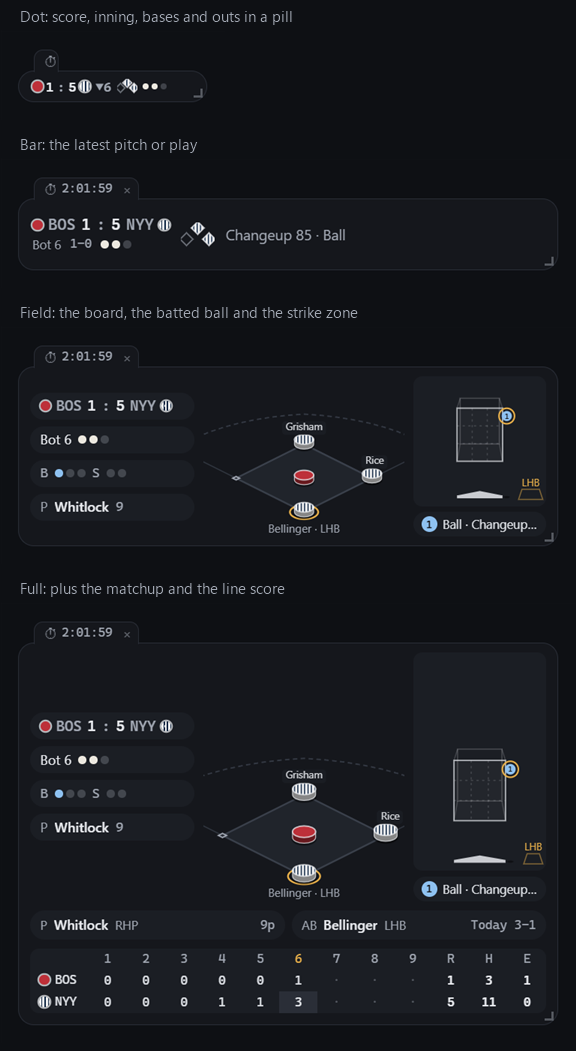
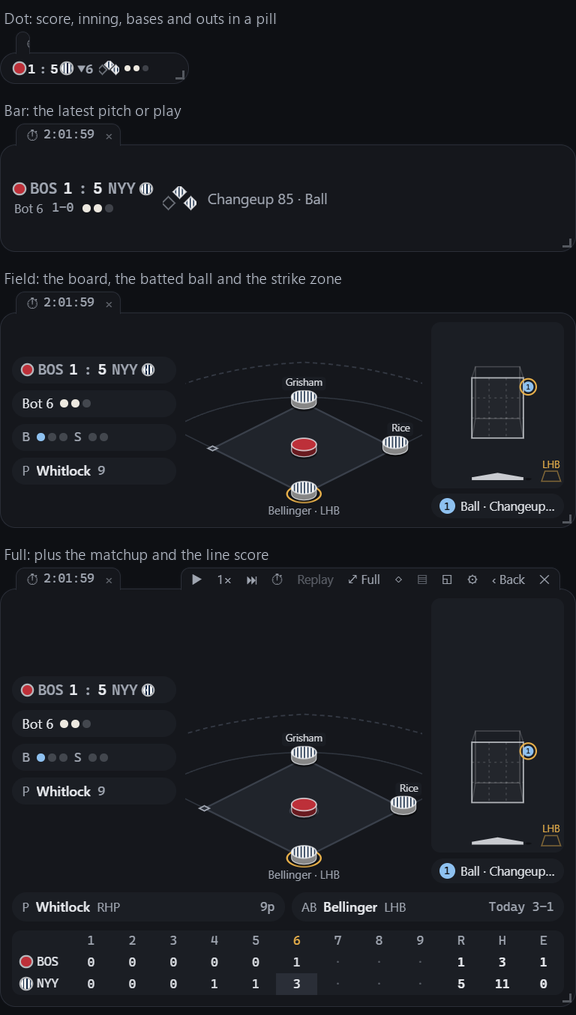
Site: the app in the corner of a work window, a Chinese size sheet, FAQ, llms.txt
- Hero: a plain spreadsheet window with the real replay over its corner, so the idea reads at once.
- The size sheet re-captured from 0.1.1 (the board now shows the infield edge), and a Chinese one
  for the Chinese page: Chinese labels over the app in Chinese.
- Two features added (player card on hover, lineup and pitchers window).
- Questions and answers on both pages, with FAQPage structured data built from the same text.
- SoftwareApplication data: screenshots, feature list, release notes, free.
- llms.txt, favicon.ico, an iPhone home-screen icon, a 404 page (no index), sitemap dates.

diff --git a/site/index.html b/site/index.html
@@ -22,6 +22,7 @@
 <meta name="twitter:card" content="summary_large_image">
 <meta name="theme-color" content="#15171C">
 <link rel="icon" type="image/png" href="media/icon.png">
+<link rel="apple-touch-icon" href="media/apple-touch-icon.png">
 <link rel="stylesheet" href="style.css">
 <script type="application/ld+json">
 {
@@ -35,10 +36,95 @@
   "license": "https://www.apache.org/licenses/LICENSE-2.0",
   "url": "https://basesmall.chroniclecore.com/",
   "downloadUrl": "https://github.com/Zaious/basesmall/releases/latest",
+  "image": "https://basesmall.chroniclecore.com/media/og.png",
+  "screenshot": ["https://basesmall.chroniclecore.com/media/demo.gif", "https://basesmall.chroniclecore.com/media/sizes.png"],
+  "featureList": ["Follows your team's live games", "Four sizes, from a pill to a full panel", "Strike zone with every pitch", "Notices that never steal focus", "Replays without spoilers", "Player card on hover", "Lineup and pitchers window", "In-app updates"],
+  "releaseNotes": "https://github.com/Zaious/basesmall/blob/main/CHANGELOG.md",
+  "isAccessibleForFree": true,
   "codeRepository": "https://github.com/Zaious/basesmall",
   "inLanguage": ["en", "zh-Hant"],
   "author": { "@type": "Person", "name": "Zaious" },
   "publisher": { "@type": "Organization", "name": "ChronicleCore Studio", "url": "https://studio.chroniclecore.com" }
+}
+</script>
+<script type="application/ld+json">
+{
+  "@context": "https://schema.org",
+  "@type": "FAQPage",
+  "mainEntity": [
+    {
+      "@type": "Question",
+      "name": "Is this an official MLB app?",
+      "acceptedAnswer": {
+        "@type": "Answer",
+        "text": "No. Basesmall is an independent fan project, not affiliated with MLB, MLB Advanced Media, the MLB Players Association or any team. Game data comes from MLB's public Stats API, fetched by your own computer, for personal, non-commercial use."
+      }
+    },
+    {
+      "@type": "Question",
+      "name": "Does it cost anything? Are there ads?",
+      "acceptedAnswer": {
+        "@type": "Answer",
+        "text": "It is free and open source (Apache License 2.0), with no ads and nothing to pay for."
+      }
+    },
+    {
+      "@type": "Question",
+      "name": "Does it show video or play the broadcast?",
+      "acceptedAnswer": {
+        "@type": "Answer",
+        "text": "No. It draws the game with a few pieces: runners, the count, the outs, the score, where each pitch crossed the plate and where the ball went. Sound is off by default, and there are only a few short cues you can choose."
+      }
+    },
+    {
+      "@type": "Question",
+      "name": "Will a replay spoil the result?",
+      "acceptedAnswer": {
+        "@type": "Answer",
+        "text": "No. Scores stay hidden while you pick a game, and in a replay the players' lines, the lineups and the pitchers only count up to the moment on screen. Games from 2023 on can be replayed."
+      }
+    },
+    {
+      "@type": "Question",
+      "name": "Does it collect my data?",
+      "acceptedAnswer": {
+        "@type": "Answer",
+        "text": "The app does not. No account, no server, no analytics: it talks to MLB for game data and asks GitHub once at start-up whether a newer version exists (you can switch that off)."
+      }
+    },
+    {
+      "@type": "Question",
+      "name": "Why does Windows say it protected my PC?",
+      "acceptedAnswer": {
+        "@type": "Answer",
+        "text": "Because the app is not code-signed yet, not because anything is wrong. Choose More info, then Run anyway. The source is public on GitHub, and the installers are built from it there."
+      }
+    },
+    {
+      "@type": "Question",
+      "name": "Does it work on a Mac or on Linux?",
+      "acceptedAnswer": {
+        "@type": "Answer",
+        "text": "Yes, as experimental builds. The macOS build is signed and notarized by Apple, one file for Intel and Apple Silicon; Linux has an AppImage and a .deb."
+      }
+    },
+    {
+      "@type": "Question",
+      "name": "How do I update?",
+      "acceptedAnswer": {
+        "@type": "Answer",
+        "text": "When a newer version is out, the installed app shows a dot on its settings button; press Update in settings and it downloads, installs and restarts. Nothing happens until you press it. For the portable zip, download the new zip."
+      }
+    },
+    {
+      "@type": "Question",
+      "name": "Does it cover other leagues?",
+      "acceptedAnswer": {
+        "@type": "Answer",
+        "text": "Only MLB for now, regular season and postseason. Other leagues have no public play-by-play data it could use."
+      }
+    }
+  ]
 }
 </script>
 </head>
@@ -62,8 +148,11 @@
       </div>
     </div>
     <figure class="hero-shot">
-      <img src="media/demo.gif" width="512" height="212" alt="Basesmall replaying a game: pieces on the bases, the count, a numbered pitch in the strike zone, then a three-run home run.">
-      <figcaption>A replay of the 2026 AL Wild Card Series, Game 2.</figcaption>
+      <div class="desk">
+        <div class="desk-win" aria-hidden="true"><div class="desk-bar"><i></i><i></i><i></i></div><div class="desk-sheet"><span style="--w:38%"></span><span style="--w:72%"></span><span style="--w:55%"></span><span style="--w:64%"></span><span style="--w:48%"></span><span style="--w:30%"></span><span style="--w:81%"></span><span style="--w:44%"></span><span style="--w:58%"></span><span style="--w:70%"></span><span style="--w:52%"></span><span style="--w:66%"></span><span style="--w:35%"></span><span style="--w:59%"></span><span style="--w:47%"></span><span style="--w:74%"></span><span style="--w:41%"></span><span style="--w:63%"></span><span style="--w:56%"></span><span style="--w:33%"></span><span style="--w:38%"></span><span style="--w:72%"></span><span style="--w:55%"></span><span style="--w:64%"></span><span style="--w:48%"></span><span style="--w:30%"></span><span style="--w:81%"></span><span style="--w:44%"></span><span style="--w:58%"></span><span style="--w:70%"></span><span style="--w:52%"></span><span style="--w:66%"></span><span style="--w:35%"></span><span style="--w:59%"></span><span style="--w:47%"></span><span style="--w:74%"></span><span style="--w:41%"></span><span style="--w:63%"></span><span style="--w:56%"></span><span style="--w:33%"></span><span style="--w:38%"></span><span style="--w:72%"></span><span style="--w:55%"></span><span style="--w:64%"></span><span style="--w:48%"></span><span style="--w:30%"></span><span style="--w:81%"></span><span style="--w:44%"></span><span style="--w:58%"></span><span style="--w:70%"></span><span style="--w:52%"></span><span style="--w:66%"></span><span style="--w:35%"></span><span style="--w:59%"></span><span style="--w:47%"></span></div></div>
+        <img class="desk-app" src="media/demo.gif" width="512" height="212" alt="Basesmall replaying a game: pieces on the bases, the count, a numbered pitch in the strike zone, then a three-run home run.">
+      </div>
+      <figcaption>Work on screen, Basesmall in the corner: a replay of the 2026 AL Wild Card Series, Game 2.</figcaption>
     </figure>
   </section>
 
@@ -78,7 +167,7 @@
         <dt>Full</dt><dd>Adds the matchup and the line score.</dd>
       </dl>
     </div>
-    <img class="sizes-shot" src="media/sizes.png" width="576" height="1051" loading="lazy" alt="The same game at four sizes, from a small pill to a full panel.">
+    <img class="sizes-shot" src="media/sizes.png" width="576" height="1015" loading="lazy" alt="The same game at four sizes, from a small pill to a full panel.">
   </section>
 
   <section class="features">
@@ -89,6 +178,8 @@
       <li><b>Notices that never steal focus.</b> A card in the corner for the plays you pick. Sound is off unless you want it.</li>
       <li><b>Every game today.</b> A scoreboard drawer, postseason series labels, and a quiet tab when another game gets close late.</li>
       <li><b>Replays without spoilers.</b> Games from 2023 on, at a pace that keeps the rhythm of each at-bat. Scores stay hidden while you pick.</li>
+      <li><b>Hover to see who it is.</b> Rest the pointer on a piece for the player's line so far today, and their regular-season and postseason totals.</li>
+      <li><b>Lineup and pitchers.</b> An optional window with the batting order, who is up and who is on deck, and every pitcher the fielding team has used.</li>
       <li><b>Your look.</b> Flat or 2.5D, solid or see-through. Every style is a file you can write yourself.</li>
     </ul>
   </section>
@@ -145,6 +236,19 @@
     </form>
     <p class="msg" role="status" aria-live="polite"></p>
     <p class="fine">Kept: your email, the phone you picked, the language and the date, stored on Cloudflare. Used only for that one message, after which the whole list is deleted; never shared, nothing else sent. You can remove yourself any time: enter your email above and choose Remove my email.</p>
+  </section>
+
+  <section class="faq" id="faq">
+    <h2>Questions</h2>
+    <details><summary>Is this an official MLB app?</summary><p>No. Basesmall is an independent fan project, not affiliated with MLB, MLB Advanced Media, the MLB Players Association or any team. Game data comes from MLB&#x27;s public Stats API, fetched by your own computer, for personal, non-commercial use.</p></details>
+    <details><summary>Does it cost anything? Are there ads?</summary><p>It is free and open source (Apache License 2.0), with no ads and nothing to pay for.</p></details>
+    <details><summary>Does it show video or play the broadcast?</summary><p>No. It draws the game with a few pieces: runners, the count, the outs, the score, where each pitch crossed the plate and where the ball went. Sound is off by default, and there are only a few short cues you can choose.</p></details>
+    <details><summary>Will a replay spoil the result?</summary><p>No. Scores stay hidden while you pick a game, and in a replay the players&#x27; lines, the lineups and the pitchers only count up to the moment on screen. Games from 2023 on can be replayed.</p></details>
+    <details><summary>Does it collect my data?</summary><p>The app does not. No account, no server, no analytics: it talks to MLB for game data and asks GitHub once at start-up whether a newer version exists (you can switch that off).</p></details>
+    <details><summary>Why does Windows say it protected my PC?</summary><p>Because the app is not code-signed yet, not because anything is wrong. Choose More info, then Run anyway. The source is public on GitHub, and the installers are built from it there.</p></details>
+    <details><summary>Does it work on a Mac or on Linux?</summary><p>Yes, as experimental builds. The macOS build is signed and notarized by Apple, one file for Intel and Apple Silicon; Linux has an AppImage and a .deb.</p></details>
+    <details><summary>How do I update?</summary><p>When a newer version is out, the installed app shows a dot on its settings button; press Update in settings and it downloads, installs and restarts. Nothing happens until you press it. For the portable zip, download the new zip.</p></details>
+    <details><summary>Does it cover other leagues?</summary><p>Only MLB for now, regular season and postseason. Other leagues have no public play-by-play data it could use.</p></details>
   </section>
 
   <section class="privacy">

diff --git a/site/zh/index.html b/site/zh/index.html
@@ -22,6 +22,7 @@
 <meta name="twitter:card" content="summary_large_image">
 <meta name="theme-color" content="#15171C">
 <link rel="icon" type="image/png" href="../media/icon.png">
+<link rel="apple-touch-icon" href="../media/apple-touch-icon.png">
 <link rel="stylesheet" href="../style.css">
 <script type="application/ld+json">
 {
@@ -35,10 +36,95 @@
   "license": "https://www.apache.org/licenses/LICENSE-2.0",
   "url": "https://basesmall.chroniclecore.com/zh/",
   "downloadUrl": "https://github.com/Zaious/basesmall/releases/latest",
+  "image": "https://basesmall.chroniclecore.com/media/og.png",
+  "screenshot": ["https://basesmall.chroniclecore.com/media/demo.gif", "https://basesmall.chroniclecore.com/media/sizes-zh.png"],
+  "featureList": ["跟主隊的直播比賽", "四種尺寸，從小膠囊到完整面板", "好球帶與每一球的位置", "不搶焦點的通知", "不爆雷的重播", "球員資料卡", "打線與投手視窗", "App 內更新"],
+  "releaseNotes": "https://github.com/Zaious/basesmall/blob/main/CHANGELOG.md",
+  "isAccessibleForFree": true,
   "codeRepository": "https://github.com/Zaious/basesmall",
   "inLanguage": ["zh-Hant", "en"],
   "author": { "@type": "Person", "name": "Zaious" },
   "publisher": { "@type": "Organization", "name": "編年史記工作室 ChronicleCore Studio", "url": "https://studio.chroniclecore.com" }
+}
+</script>
+<script type="application/ld+json">
+{
+  "@context": "https://schema.org",
+  "@type": "FAQPage",
+  "mainEntity": [
+    {
+      "@type": "Question",
+      "name": "這是 MLB 官方的嗎？",
+      "acceptedAnswer": {
+        "@type": "Answer",
+        "text": "不是。Basesmall 是獨立的球迷專案，跟 MLB、MLBAM、大聯盟球員工會或任何球隊都沒有關係。比賽資料來自 MLB 公開的 Stats API，由你的電腦直接取得，僅供個人、非商業使用。"
+      }
+    },
+    {
+      "@type": "Question",
+      "name": "要錢嗎？有廣告嗎？",
+      "acceptedAnswer": {
+        "@type": "Answer",
+        "text": "完全免費、開源（Apache License 2.0），沒有廣告，也沒有付費功能。"
+      }
+    },
+    {
+      "@type": "Question",
+      "name": "會播影片或轉播的聲音嗎？",
+      "acceptedAnswer": {
+        "@type": "Answer",
+        "text": "不會。它只用幾顆棋子畫出壘上跑者、球數、出局數、比分、每一球的位置和擊球方向。音效預設關閉，只有幾個可以自己選的短提示音。"
+      }
+    },
+    {
+      "@type": "Question",
+      "name": "重播會不會爆雷？",
+      "acceptedAnswer": {
+        "@type": "Answer",
+        "text": "不會。選場時不顯示比分；重播時球員成績、打線和投手都只算到畫面上那一刻。2023 年以後的比賽都能重播。"
+      }
+    },
+    {
+      "@type": "Question",
+      "name": "會收集我的資料嗎？",
+      "acceptedAnswer": {
+        "@type": "Answer",
+        "text": "程式不會。不用帳號、沒有伺服器、不做分析；它只連 MLB 的比賽資料，以及每次啟動時問 GitHub 一次有沒有新版本（可以在設定關掉）。"
+      }
+    },
+    {
+      "@type": "Question",
+      "name": "Windows 為什麼說「已保護您的電腦」？",
+      "acceptedAnswer": {
+        "@type": "Answer",
+        "text": "因為程式還沒有程式碼簽章，不代表有問題。按「其他資訊」，再按「仍要執行」。原始碼公開在 GitHub，安裝檔由 GitHub 從原始碼自動建置。"
+      }
+    },
+    {
+      "@type": "Question",
+      "name": "Mac 和 Linux 能用嗎？",
+      "acceptedAnswer": {
+        "@type": "Answer",
+        "text": "可以，目前標為實驗性。Mac 版已通過 Apple 簽章與公證，Intel 和 Apple Silicon 共用一個檔案；Linux 有 AppImage 和 .deb。"
+      }
+    },
+    {
+      "@type": "Question",
+      "name": "怎麼更新？",
+      "acceptedAnswer": {
+        "@type": "Answer",
+        "text": "安裝版有新版時，設定按鈕會出現一個小點，到設定按「更新」就會下載、安裝並重開，不按就不會動。免安裝版請下載新的 zip。"
+      }
+    },
+    {
+      "@type": "Question",
+      "name": "支援其他聯盟嗎？",
+      "acceptedAnswer": {
+        "@type": "Answer",
+        "text": "目前只有 MLB，例行賽和季後賽都可以。其他聯盟目前沒有可以使用的公開逐球資料。"
+      }
+    }
+  ]
 }
 </script>
 </head>
@@ -62,8 +148,11 @@
       </div>
     </div>
     <figure class="hero-shot">
-      <img src="../media/demo.gif" width="512" height="212" alt="Basesmall 重播一場比賽：壘上的棋子、球數、好球帶裡有編號的投球，接著一支三分砲。">
-      <figcaption>2026 美聯外卡系列賽第二戰的重播。</figcaption>
+      <div class="desk">
+        <div class="desk-win" aria-hidden="true"><div class="desk-bar"><i></i><i></i><i></i></div><div class="desk-sheet"><span style="--w:38%"></span><span style="--w:72%"></span><span style="--w:55%"></span><span style="--w:64%"></span><span style="--w:48%"></span><span style="--w:30%"></span><span style="--w:81%"></span><span style="--w:44%"></span><span style="--w:58%"></span><span style="--w:70%"></span><span style="--w:52%"></span><span style="--w:66%"></span><span style="--w:35%"></span><span style="--w:59%"></span><span style="--w:47%"></span><span style="--w:74%"></span><span style="--w:41%"></span><span style="--w:63%"></span><span style="--w:56%"></span><span style="--w:33%"></span><span style="--w:38%"></span><span style="--w:72%"></span><span style="--w:55%"></span><span style="--w:64%"></span><span style="--w:48%"></span><span style="--w:30%"></span><span style="--w:81%"></span><span style="--w:44%"></span><span style="--w:58%"></span><span style="--w:70%"></span><span style="--w:52%"></span><span style="--w:66%"></span><span style="--w:35%"></span><span style="--w:59%"></span><span style="--w:47%"></span><span style="--w:74%"></span><span style="--w:41%"></span><span style="--w:63%"></span><span style="--w:56%"></span><span style="--w:33%"></span><span style="--w:38%"></span><span style="--w:72%"></span><span style="--w:55%"></span><span style="--w:64%"></span><span style="--w:48%"></span><span style="--w:30%"></span><span style="--w:81%"></span><span style="--w:44%"></span><span style="--w:58%"></span><span style="--w:70%"></span><span style="--w:52%"></span><span style="--w:66%"></span><span style="--w:35%"></span><span style="--w:59%"></span><span style="--w:47%"></span></div></div>
+        <img class="desk-app" src="../media/demo.gif" width="512" height="212" alt="Basesmall 重播一場比賽：壘上的棋子、球數、好球帶裡有編號的投球，接著一支三分砲。">
+      </div>
+      <figcaption>工作的畫面，角落開著 Basesmall：2026 美聯外卡系列賽第二戰的重播。</figcaption>
     </figure>
   </section>
 
@@ -78,7 +167,7 @@
         <dt>全</dt><dd>再加上投打對決和逐局比分。</dd>
       </dl>
     </div>
-    <img class="sizes-shot" src="../media/sizes.png" width="576" height="1051" loading="lazy" alt="同一場比賽的四種尺寸，從小膠囊到完整面板。">
+    <img class="sizes-shot" src="../media/sizes-zh.png" width="576" height="1015" loading="lazy" alt="同一場比賽的四種尺寸，從小膠囊到完整面板。">
   </section>
 
   <section class="features">
@@ -89,6 +178,8 @@
       <li><b>通知不搶焦點。</b>只跳你選的事件，卡片在角落，你打字不會被打斷。音效預設關閉。</li>
       <li><b>今天每一場。</b>計分板抽屜、季後賽系列賽標示，另一場比賽後段膠著時會出現一個安靜的頁籤。</li>
       <li><b>重播不爆雷。</b>2023 年以後的比賽，保留每個打席的節奏；選場時不顯示比分。</li>
+      <li><b>滑鼠移過去就知道是誰。</b>停在棋子上，顯示球員今天到這一刻的成績，以及例行賽、季後賽的累計。</li>
+      <li><b>打線與投手。</b>選配的小視窗：攻方一到九棒、誰在打、下一棒是誰，以及守備方這場用過的投手。</li>
       <li><b>你的樣子。</b>平面或 2.5D，實底或透明。每個風格都是一個檔案，可以自己寫。</li>
     </ul>
   </section>
@@ -145,6 +236,19 @@
     </form>
     <p class="msg" role="status" aria-live="polite"></p>
     <p class="fine">只存你的 Email、選的手機、語言和登記日期，放在 Cloudflare 上。只用來寄那一封信，寄完就刪除整份名單；不給任何人，也不寄別的東西。隨時可以在上面輸入 Email、按「刪除我的 Email」。</p>
+  </section>
+
+  <section class="faq" id="faq">
+    <h2>常見問題</h2>
+    <details><summary>這是 MLB 官方的嗎？</summary><p>不是。Basesmall 是獨立的球迷專案，跟 MLB、MLBAM、大聯盟球員工會或任何球隊都沒有關係。比賽資料來自 MLB 公開的 Stats API，由你的電腦直接取得，僅供個人、非商業使用。</p></details>
+    <details><summary>要錢嗎？有廣告嗎？</summary><p>完全免費、開源（Apache License 2.0），沒有廣告，也沒有付費功能。</p></details>
+    <details><summary>會播影片或轉播的聲音嗎？</summary><p>不會。它只用幾顆棋子畫出壘上跑者、球數、出局數、比分、每一球的位置和擊球方向。音效預設關閉，只有幾個可以自己選的短提示音。</p></details>
+    <details><summary>重播會不會爆雷？</summary><p>不會。選場時不顯示比分；重播時球員成績、打線和投手都只算到畫面上那一刻。2023 年以後的比賽都能重播。</p></details>
+    <details><summary>會收集我的資料嗎？</summary><p>程式不會。不用帳號、沒有伺服器、不做分析；它只連 MLB 的比賽資料，以及每次啟動時問 GitHub 一次有沒有新版本（可以在設定關掉）。</p></details>
+    <details><summary>Windows 為什麼說「已保護您的電腦」？</summary><p>因為程式還沒有程式碼簽章，不代表有問題。按「其他資訊」，再按「仍要執行」。原始碼公開在 GitHub，安裝檔由 GitHub 從原始碼自動建置。</p></details>
+    <details><summary>Mac 和 Linux 能用嗎？</summary><p>可以，目前標為實驗性。Mac 版已通過 Apple 簽章與公證，Intel 和 Apple Silicon 共用一個檔案；Linux 有 AppImage 和 .deb。</p></details>
+    <details><summary>怎麼更新？</summary><p>安裝版有新版時，設定按鈕會出現一個小點，到設定按「更新」就會下載、安裝並重開，不按就不會動。免安裝版請下載新的 zip。</p></details>
+    <details><summary>支援其他聯盟嗎？</summary><p>目前只有 MLB，例行賽和季後賽都可以。其他聯盟目前沒有可以使用的公開逐球資料。</p></details>
   </section>
 
   <section class="privacy">

diff --git a/site/style.css b/site/style.css
@@ -48,6 +48,18 @@ p { margin: 0; }
 .ctas { display: flex; gap: 12px; flex-wrap: wrap; }
 .hero-shot { margin: 0; }
 .hero-shot img { display: block; width: 100%; border-radius: var(--radius); background: #15171C; box-shadow: 0 18px 50px rgb(21 23 28 / .28); image-rendering: auto; }
+
+/* The hero picture: a plain work window (a spreadsheet of grey bars), the real app over its corner. */
+.desk { position: relative; padding-bottom: 16%; }
+.desk-win { aspect-ratio: 16 / 10; overflow: hidden; border-radius: var(--radius); background: var(--panel); border: 1px solid var(--line);
+  box-shadow: 0 18px 50px rgb(21 23 28 / .14); }
+.desk-bar { display: flex; gap: 6px; align-items: center; height: 26px; padding: 0 12px; border-bottom: 1px solid var(--line); }
+.desk-bar i { width: 9px; height: 9px; border-radius: 50%; background: var(--line); }
+.desk-sheet { display: grid; grid-template-columns: .55fr 1.5fr 1fr 1fr 1fr; }
+.desk-sheet span { position: relative; height: 24px; border-right: 1px solid var(--line); border-bottom: 1px solid var(--line); }
+.desk-sheet span::after { content: ''; position: absolute; left: 8px; top: 10px; width: var(--w); max-width: calc(100% - 16px); height: 5px;
+  border-radius: 3px; background: color-mix(in srgb, var(--muted) 30%, transparent); }
+.hero-shot .desk-app { position: absolute; right: -3%; bottom: 0; width: 68%; border: 1px solid #2A2E37; box-shadow: 0 18px 44px rgb(0 0 0 / .45); }
 figcaption { margin-top: 12px; font-size: 14px; color: var(--muted); }
 
 /* Sizes: the tall picture beside a short definition list. */
@@ -100,6 +112,17 @@ dd { margin: 0; color: var(--muted); }
 .waitlist .fine { font-size: 13px; color: var(--muted); }
 .hp { position: absolute; left: -10000px; width: 1px; height: 1px; overflow: hidden; }
 main.done { padding: 96px 24px; display: grid; gap: 16px; font-size: 18px; }
+
+/* Questions: one line each until opened. */
+.faq { padding: 64px 0 24px; border-top: 1px solid var(--line); display: grid; max-width: 760px; }
+.faq h2 { margin-bottom: 18px; }
+.faq details { border-bottom: 1px solid var(--line); padding: 14px 0; }
+.faq summary { display: flex; justify-content: space-between; gap: 16px; cursor: pointer; font-weight: 650; list-style: none; }
+.faq summary::-webkit-details-marker { display: none; }
+.faq summary::after { content: '+'; color: var(--muted); font-weight: 400; }
+.faq details[open] summary::after { content: '\2212'; }
+.faq summary:focus-visible { outline: 2px solid var(--accent); outline-offset: 3px; }
+.faq details p { margin-top: 8px; color: var(--muted); }
 
 .privacy { padding: 64px 0 80px; display: grid; gap: 14px; max-width: 760px; }
 .privacy p { color: var(--muted); }

diff --git a/site/404.html b/site/404.html
@@ -1,0 +1,22 @@
+<!doctype html>
+<html lang="en">
+<head>
+<meta charset="utf-8">
+<meta name="viewport" content="width=device-width, initial-scale=1">
+<title>Not found · Basesmall</title>
+<meta name="robots" content="noindex">
+<meta name="theme-color" content="#15171C">
+<link rel="icon" type="image/png" href="/media/icon.png">
+<link rel="stylesheet" href="/style.css">
+</head>
+<body>
+<header class="top">
+  <a class="brand" href="/"><img src="/media/icon.png" alt="" width="28" height="28"><span>Basesmall</span></a>
+</header>
+<main class="done">
+  <h1>Nothing here.</h1>
+  <p lang="zh-Hant">這裡沒有東西。</p>
+  <p><a href="/">Basesmall</a> · <a href="/zh/" lang="zh-Hant">中文</a> · <a href="https://github.com/Zaious/basesmall/releases/latest">Download</a></p>
+</main>
+</body>
+</html>
